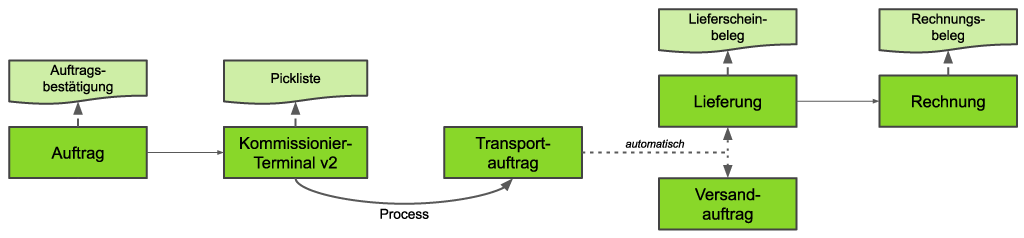
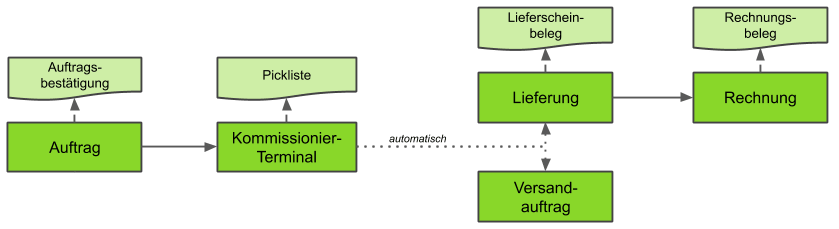
Added new picking workflow image
- png: Sales workflow 'Shops > SO Import >. . .> Accounting FACTS'
- Moved picking docs into section "Sales Processes"
- updated pngs

(this is about issue #842 )

Changed region(s): [[0.0, 0.2445, 1.0, 0.9782], [0.5578, 0.0, 1.0, 0.3057], [0.2169, 0.2445, 0.4338, 0.4891]]

diff --git a/_webui_collection/DE/Workflow_Auftragsdispo_Shop_bis_Rechnung_Kommissionierterminalv2.md b/_webui_collection/DE/Workflow_Auftragsdispo_Shop_bis_Rechnung_Kommissionierterminalv2.md
@@ -1,0 +1,20 @@
+---
+title: Auftragsdispositon (Shops) bis Rechnung (inkl. FiBu)
+layout: default
+tags:
+  - Workflow
+  - Verkauf
+  - Verkaufsprozesse
+lang: de
+sequence: 10
+ref: workflow_so_candidates_shop_to_invoice_picking_terminalv2
+---
+
+<kbd><img src="assets/Workflow_Shop_Auftragsdispo_bis_Rechnung_FACTS (Kommissionier-Terminal v2).png" alt="Abb.: Workflow - Auftragsdispo (von Shops) bis Rechnung und FACTS (Kommissionier-Terminal v2)"></kbd>
+
+## Schritte
+1. Übermittle die Auftragsdaten aus dem Online-Shop über die externe Schnittstellenanbindung an die [Auftragsdisposition](Menu) von metasfresh.
+1. [Verbuche die Zahlungseingänge](Einzelner_Zahlungseingang).
+1. Wandle die Auftragskandidaten in Aufträge um und [stelle diese fertig](BelegverarbeitungFertigstellen).
+1. [Kommissioniere die Aufträge für den Versand](Auftrag_kommissionieren_Terminal_v2).
+1. Mit der Verarbeitung der Kommissionierung werden gleichzeitig auch Versandauftrag, Lieferung samt Lieferschein sowie Rechnung automatisch erstellt bzw. fertiggestellt.

diff --git a/_webui_collection/EN/Workflow_SO_Candidates_Shop_to_Invoice_picking_terminalv2.md b/_webui_collection/EN/Workflow_SO_Candidates_Shop_to_Invoice_picking_terminalv2.md
@@ -1,0 +1,20 @@
+---
+title: Sales Order Candidates (Shops) to Invoice (incl. FACTS)
+layout: default
+tags:
+  - Workflow
+  - Sales
+  - Sales Processes
+lang: en
+sequence: 10
+ref: workflow_so_candidates_shop_to_invoice_picking_terminalv2
+---
+
+<kbd><img src="assets/Workflow_SO_Candidates_Shop_to_Invoice_FACTS (Picking Terminal v2).png" alt="Abb.: Workflow - Sales Order Candidates (from Shops) to Invoice and FACTS (Picking Terminal v2)"></kbd>
+
+## Steps
+1. Transfer the sales order data from the online shop to metasfresh's [Sales Order Disposition](Menu) via the external interface connection.
+1. [Enter the incoming payments](Single_incoming_payment).
+1. Convert the sales order candidates into sales orders and [complete them](DocumentProcessingComplete).
+1. [Pick the sales orders for shipping](Order_picking_terminal_v2).
+1. When picking is processed, the delivery order, the shipment along with the delivery note, and the invoice are created and completed automatically at the same time.

diff --git a/_webui_collection/DE/Auftrag_kommissionieren_Terminal_v2.md b/_webui_collection/DE/Auftrag_kommissionieren_Terminal_v2.md
@@ -4,6 +4,7 @@ layout: default
 tags:
   - Workflow
   - Verkauf
+  - Verkaufsprozesse
   - Kommissionierung
 lang: de
 sequence: 30
@@ -18,7 +19,7 @@ Die Lagerbestände kannst Du im "[Handling Unit Editor](Menu)" jederzeit nachsch
 
 ## Voraussetzungen
 1. [Erfasse einen für den Versand bestimmten Auftrag](Auftrag_erfassen_Versand) und [stelle ihn fertig](BelegverarbeitungFertigstellen).
-1. [Erstelle einen Transportauftrag im Status *Entwurf*](Transportauftrag_erstellen), in dem der kommissionierte Auftrag abgewickelt werden soll.
+1. [Erstelle einen Transportauftrag im Status *Entwurf*](Transportauftrag_erstellen), über den der kommissionierte Auftrag abgewickelt werden soll.
 1. Vergewissere Dich vor der Kommissionierung, dass die georderten Produkte in ausreichender Menge für den Verkauf auf Lager sind.
 1. Um den Bestand aufzufüllen, kannst Du entweder:<br>
   **a)** einen [Wareneingang erstellen](Zu_Bestellung_Wareneingang_erstellen).<br>

diff --git a/_webui_collection/EN/Order_picking_terminal_v2.md b/_webui_collection/EN/Order_picking_terminal_v2.md
@@ -4,6 +4,7 @@ layout: default
 tags:
   - Workflow
   - Sales
+  - Sales Processes
   - Order Picking
 lang: en
 sequence: 30
@@ -18,7 +19,7 @@ You can review your stock levels at any time in the "[Handling Unit Editor](Menu
 
 ## Requirements
 1. [Create a sales order intended for shipping](Sales_order_with_shipper) and [complete it](DocumentProcessingComplete).
-1. [Create a transport order in the *Drafted* status](Create_transport_order) to use it to handle the picked sales order.
+1. [Create a transport order in the *Drafted* status](Create_transport_order) to use for handling the picked sales order.
 1. Prior to picking, make sure that the ordered products are in stock in sufficient quantity for sale.
 1. To replenish stocks, you can either:<br>
   **a)** [create a goods receipt](CreateGoodsReceipt).<br>

diff --git a/_webui_collection/DE/Auftrag_kommissionieren.md b/_webui_collection/DE/Auftrag_kommissionieren.md
@@ -4,6 +4,7 @@ layout: default
 tags:
   - Workflow
   - Verkauf
+  - Verkaufsprozesse
   - Kommissionierung
 lang: de
 sequence: 10

diff --git a/_webui_collection/DE/Lieferung_mit_kommissionierter_Menge.md b/_webui_collection/DE/Lieferung_mit_kommissionierter_Menge.md
@@ -4,6 +4,7 @@ layout: default
 tags:
   - Workflow
   - Verkauf
+  - Verkaufsprozesse
   - Kommissionierung
 lang: de
 sequence: 20

diff --git a/_webui_collection/EN/Order_picking_terminal.md b/_webui_collection/EN/Order_picking_terminal.md
@@ -4,6 +4,7 @@ layout: default
 tags:
   - Workflow
   - Sales
+  - Sales Processes
   - Order Picking
 lang: en
 sequence: 10

diff --git a/_webui_collection/EN/Ship_salesorder_picked_qty.md b/_webui_collection/EN/Ship_salesorder_picked_qty.md
@@ -4,6 +4,7 @@ layout: default
 tags:
   - Workflow
   - Sales
+  - Sales Processes
   - Order Picking
 lang: en
 sequence: 20
